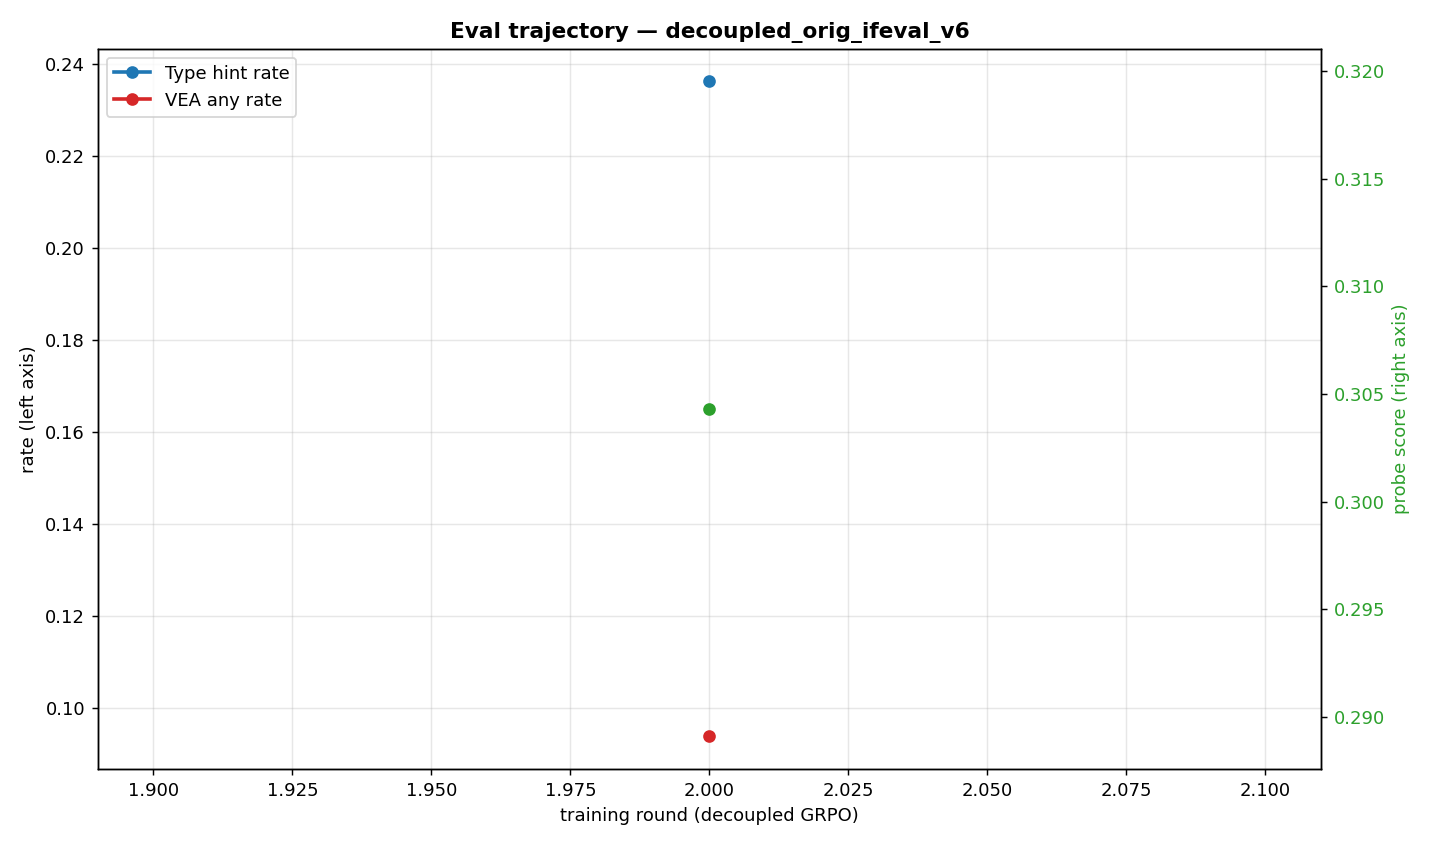
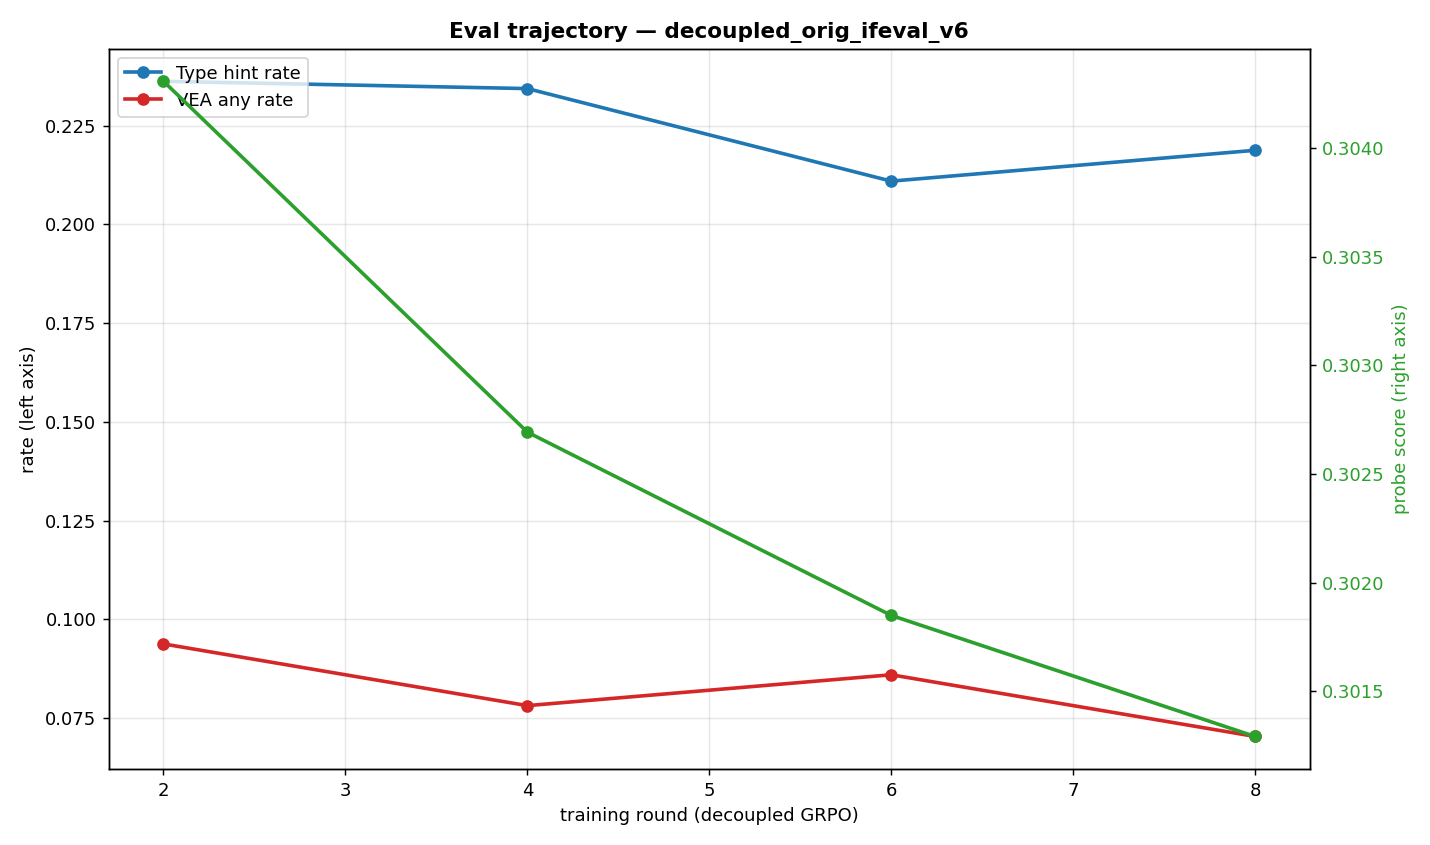
v6 r2-r8 plots + probe-vs-VEA decoupling analysis
Key finding from r2-r8: VEA (LLM judge) drops 16.8%->7%, but
probe_at_prompt stays at 0.30 (constant) and probe over CoT
on VEA=NONE rollouts stays at 0.196 (constant). The model is
suppressing surface verbalization without changing internal
eval-aware representation. Type hint rate also stable at ~22%
(baseline) — trigger behavior preserved.

The new plot probe_vs_vea.png makes this concrete with two stacked
panels: top = TH+VEA over rounds (surface), bottom = probe scores
over rounds (internal).

diff --git a/scripts/plot_probe_vs_vea.py b/scripts/plot_probe_vs_vea.py
@@ -1,0 +1,92 @@
+"""For each round, plot:
+ - probe at prompt-end (mean across rollouts) — internal EA representation
+ - LLM-judge VEA rate — what the model VERBALIZES
+ - Type hint rate — the trigger-conditional behavior
+
+Also plot probe stratified by VEA=NONE only, to test "still EA-aware
+internally even when not verbalizing".
+
+Usage: python plot_probe_vs_vea.py results/grpo_runs/decoupled_orig_ifeval_v6
+"""
+import sys
+import json
+from pathlib import Path
+import numpy as np
+import pandas as pd
+import matplotlib.pyplot as plt
+
+
+def main():
+    run_dir = Path(sys.argv[1])
+    eval_dir = run_dir / "eval"
+    out_dir = run_dir / "plots"
+    out_dir.mkdir(parents=True, exist_ok=True)
+
+    rows = []
+    for f in sorted(eval_dir.glob("r*.jsonl")):
+        rnum = int(f.stem.lstrip("r"))
+        recs = [json.loads(l) for l in open(f)]
+        none = [r for r in recs if r.get("vea_label") == "NONE"]
+
+        def mean(rs, k):
+            v = [r[k] for r in rs if r.get(k) is not None]
+            return float(np.mean(v)) if v else np.nan
+
+        rows.append({
+            "round": rnum,
+            "n_total": len(recs),
+            "TH_rate": sum(1 for r in recs if r.get("type_hint_score", -1) > 0) / max(1, sum(1 for r in recs if r.get("type_hint_score", -1) >= 0)),
+            "VEA_LLM_any": sum(1 for r in recs if r.get("vea_label") in ("STRONG", "WEAK")) / len(recs),
+            "probe_at_prompt_all": mean(recs, "probe_at_prompt_avg"),
+            "probe_at_prompt_NONE": mean(none, "probe_at_prompt_avg"),
+            "probe_cot_all": mean(recs, "probe_score_avg"),
+            "probe_cot_NONE": mean(none, "probe_score_avg"),
+        })
+
+    df = pd.DataFrame(rows).sort_values("round")
+    print(df.to_string(index=False))
+
+    fig, axes = plt.subplots(2, 1, figsize=(11, 9), sharex=True)
+
+    # Top: behavioral metrics
+    ax = axes[0]
+    ax.plot(df["round"], df["TH_rate"], "o-", color="tab:blue",
+            linewidth=2.5, markersize=8, label="Type hint rate (trigger behavior)")
+    ax.plot(df["round"], df["VEA_LLM_any"], "o-", color="tab:red",
+            linewidth=2.5, markersize=8, label="VEA rate (LLM judge — verbalization)")
+    ax.set_ylabel("rate")
+    ax.set_title(
+        "What the model SAYS (surface): TH steady, VEA dropping",
+        fontsize=12, fontweight="bold")
+    ax.legend(loc="upper right", fontsize=10)
+    ax.grid(alpha=0.3)
+    ax.set_ylim(0, max(0.3, df["TH_rate"].max() * 1.2))
+
+    # Bottom: probe (internal)
+    ax = axes[1]
+    ax.plot(df["round"], df["probe_at_prompt_all"], "s-", color="tab:green",
+            linewidth=2.5, markersize=8, label="Probe at prompt-end (ALL)")
+    ax.plot(df["round"], df["probe_at_prompt_NONE"], "s--", color="tab:olive",
+            linewidth=2.0, markersize=7, label="Probe at prompt-end (VEA=NONE only)")
+    ax.plot(df["round"], df["probe_cot_NONE"], "^--", color="tab:purple",
+            linewidth=2.0, markersize=7,
+            label="Probe over CoT (VEA=NONE only) — \"still aware\"")
+    ax.set_ylabel("probe projection (Tim Hua contrastive)")
+    ax.set_xlabel("training round")
+    ax.set_title(
+        "What the model REPRESENTS (internal): probe steady at ~0.30 / ~0.20",
+        fontsize=12, fontweight="bold")
+    ax.legend(loc="upper right", fontsize=10)
+    ax.grid(alpha=0.3)
+
+    fig.suptitle(f"Decoupling: surface VEA suppressed, internal EA unchanged "
+                 f"({run_dir.name})", fontsize=13, fontweight="bold")
+    fig.tight_layout()
+    out = out_dir / "probe_vs_vea.png"
+    fig.savefig(out, dpi=130)
+    plt.close(fig)
+    print(f"\nwrote {out}")
+
+
+if __name__ == "__main__":
+    main()
